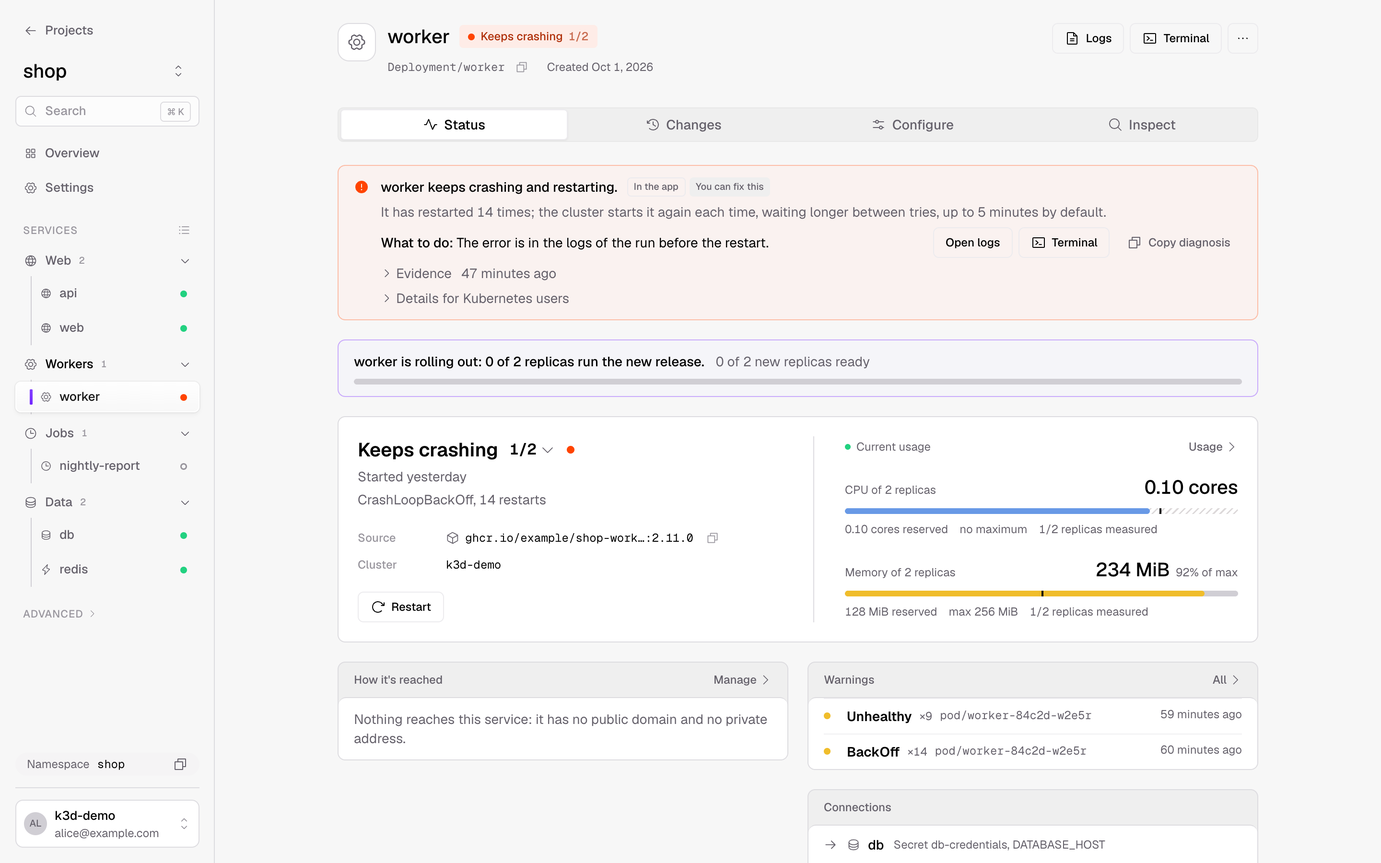
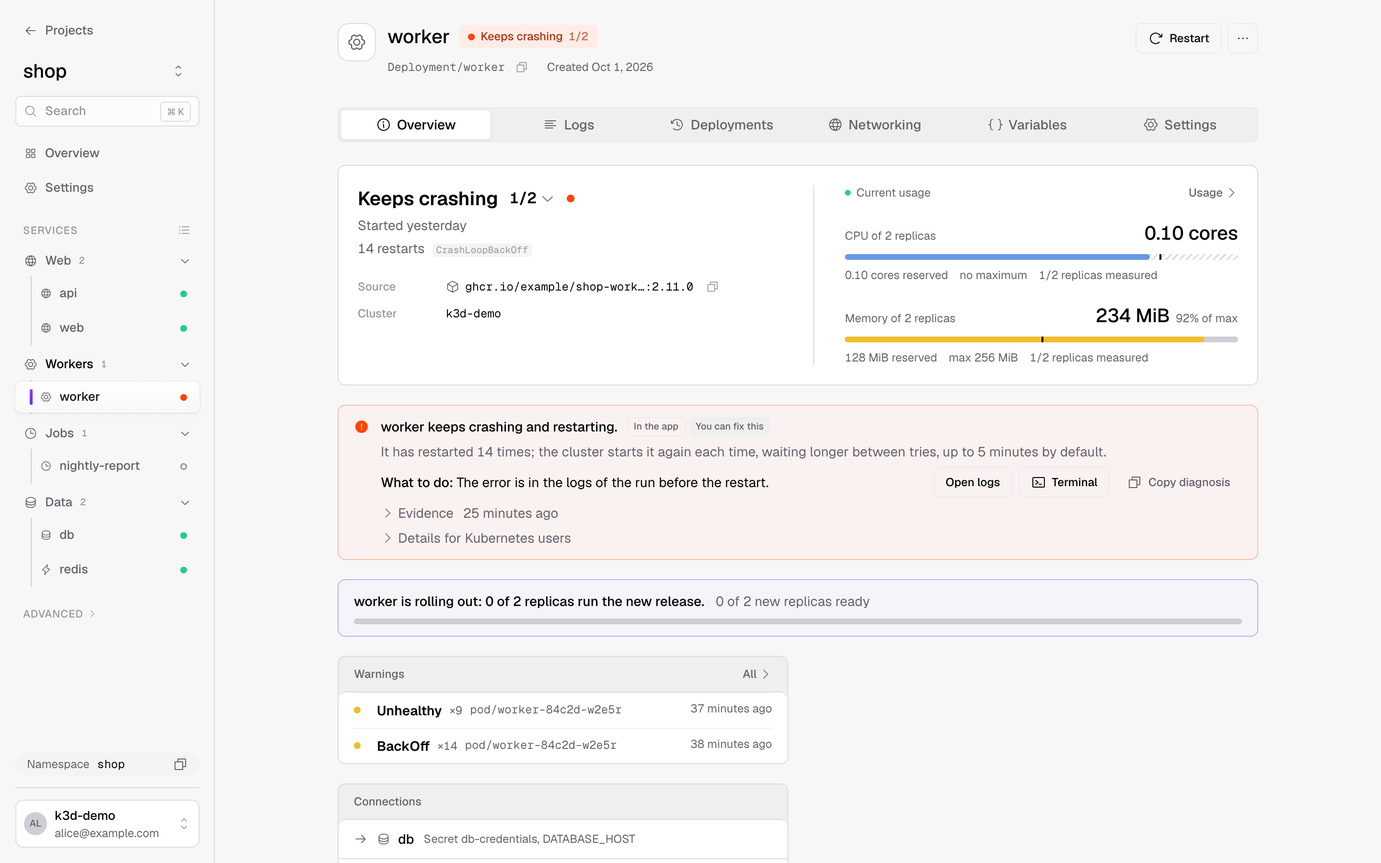
docs: describe a service's six tabs and its More menu
DESIGN.md dropped its "no More menu" rule: the header's one menu now holds
the views only people who know Kubernetes open (Usage, Events, Terminal,
YAML) and Delete, because people looked for logs and settings under the
names hosted Zeabur uses and an expert view does not earn a tab. The
wording guide, the zeabur-ui skill and the README follow, with new
screenshots.

diff --git a/web/DESIGN.md b/web/DESIGN.md
@@ -22,8 +22,8 @@ look-alikes; `src/styles/app.css` imports it and adds only this interface's layo
   that pod's logs.
 - **Bars** are `Meter` (a value on a track, a request as a mark) or `MeterStack` (parts of a
   whole); no bar of its own.
-- **Tabs** are the segmented `Tabs`, the only tab style; a service's four sections fill its
-  column, each with its icon, no counts. Vertical tabs are sidebar rows; a long page's parts are a
+- **Tabs** are the segmented `Tabs`, the only tab style; a service's six tabs fill its column,
+  each with its icon (none on a phone), no counts. Vertical tabs are sidebar rows; a long page's parts are a
   `SectionNav` beside it.
 - **Columns**: a service's page in `max-w-content`; Home, Projects and the project's lists in
   `max-w-6xl`; project settings in `max-w-4xl`; the project's map takes the whole pane.
@@ -75,25 +75,28 @@ Zeabur has depth. A person new to it does most of what they came for (is it runn
 logs, change a variable, scale it, give it a domain) on a few plain pages; what takes knowing
 Kubernetes is one deliberate step further. Decide a feature's layer before its place:
 
-| Layer         | For                        | Global         | Project                         | Service                                                                               |
-| ------------- | -------------------------- | -------------- | ------------------------------- | ------------------------------------------------------------------------------------- |
-| **Everyday**  | everyone                   | Home, Projects | Overview (map or list)          | Status, Changes, Configure (Variables, Domains and addresses, Storage, Compute), Logs |
-| **Adjusting** | digging in, tuning         |                | Suggestions, Activity, Settings | Configure's Health checks, Changes' compare and roll back, Inspect's Usage and Events |
-| **Expert**    | people who know Kubernetes | Cluster        | Objects                         | Inspect's Terminal and YAML                                                           |
+| Layer         | For                        | Global         | Project                         | Service                                                                                  |
+| ------------- | -------------------------- | -------------- | ------------------------------- | ---------------------------------------------------------------------------------------- |
+| **Everyday**  | everyone                   | Home, Projects | Overview (map or list)          | Overview, Logs, Deployments, Networking, Variables, Settings (Compute, Storage)          |
+| **Adjusting** | digging in, tuning         |                | Suggestions, Activity, Settings | Settings' Health checks, Deployments' compare and roll back, the menu's Usage and Events |
+| **Expert**    | people who know Kubernetes | Cluster        | Objects                         | The menu's Terminal and YAML                                                             |
 
 - **Everyday comes first and alone.** The sidebar leads with Home and Projects; Cluster and
   Settings are in a Manage group after them. A project's sidebar lists Overview and Settings,
-  then its services, with Objects under Advanced. A service has four sections, each answering one
-  question: Status (is it working, and if not why), Changes (what changed), Configure (how it is
-  set up) and Inspect (look inside). Logs and Terminal are also in its header, one press from a
-  problem; View YAML is in its menu. There is no "More" menu: what does not apply is left out.
+  then its services, with Objects under Advanced. A service has six tabs under the names hosted Zeabur uses:
+  Overview (is it working, and if not why), Logs, Deployments (what changed), Networking,
+  Variables and Settings. A tab is never also a header button. The header's one "More" menu
+  (⋯) holds the views only people who know Kubernetes open (Usage, Events, Terminal, YAML) and
+  Delete; a view shows in place of the tabs with Close. This menu replaced a fourth section,
+  Inspect: people looked for logs and settings under the names they knew, and an expert view does
+  not earn a tab. Nothing else goes in it; what does not apply is left out.
   In a form, an adjusting part is a folding section (Collapsible `section`). There is no
   beginner or expert switch: explanations attach to problems and first encounters, and nothing
   folds more than twice.
 - **Fold, never hide.** Every deeper page stays one press away: a folded group remembers being
   opened (`remembered` in `lib/stores.ts`), a group that holds the page shown opens itself, and
-  a link straight to a deeper page (`?tab=inspect&view=yaml`, a toast's View, the header menu's
-  View YAML) shows it in place.
+  a link straight to a deeper page (`?tab=yaml`, a toast's View, the header menu's YAML) shows
+  it in place.
 - **One current row.** The deepest place the page is has the selected fill; the rows it is under are
   ancestors (label in the text colour). Navigation links match their path exactly.
 
@@ -102,17 +105,17 @@ Kubernetes is one deliberate step further. Decide a feature's layer before its p
 Find the problem first, then let the person choose to dig into a service or to understand how the
 project fits together. Workflow, comparison and relationships each have their own entry.
 
-| URL                                 | Page                                                                                                                                                                                                                                                                                                                                                                                                                                                                                                                                                                                                                                                                                                                                                                                                                                                                                                                                                                                                                                                                                      |
-| ----------------------------------- | ----------------------------------------------------------------------------------------------------------------------------------------------------------------------------------------------------------------------------------------------------------------------------------------------------------------------------------------------------------------------------------------------------------------------------------------------------------------------------------------------------------------------------------------------------------------------------------------------------------------------------------------------------------------------------------------------------------------------------------------------------------------------------------------------------------------------------------------------------------------------------------------------------------------------------------------------------------------------------------------------------------------------------------------------------------------------------------------- |
-| `/`                                 | **Home**, "What needs you": one sentence of the overall state beside the cluster's version, nodes ready and upgrade pill (linking to `/cluster`); then the cluster's incidents, each once with the services and domains it takes down; then every other problem across projects grouped by where it comes from (the cluster, a cluster component, Zeabur, upstream, the settings, the app), each with its cause, who can fix it, and its fix, Logs and Events; cluster warnings that take nothing down in one line; what is rolling out. When nothing needs the person, one line. Then projects failing first (20 shown) and recent warnings (5).                                                                                                                                                                                                                                                                                                                                                                                                                                         |
-| `/cluster`                          | **Cluster**, tab Overview: version with an upgrade pill, needs attention, nodes with requests against allocatable (usage when metrics-server is there), the last hour's warnings about the cluster itself (no namespace, a Node, or a `kube-` namespace). Projects are Home's. Each section loads alone; a section the person may not read names the missing rule and copies a ClusterRole.                                                                                                                                                                                                                                                                                                                                                                                                                                                                                                                                                                                                                                                                                               |
-| `/cluster/components`               | **Cluster**, tab Components: installed components with their versions against the tested ones, then the catalogue. Reading it takes an administrator's rights; anyone else sees the missing rules and a ClusterRole to copy.                                                                                                                                                                                                                                                                                                                                                                                                                                                                                                                                                                                                                                                                                                                                                                                                                                                              |
-| `/projects`                         | Projects as cards (namespace, services' health, domain; failing first), or as a list (remembered), then the other namespaces.                                                                                                                                                                                                                                                                                                                                                                                                                                                                                                                                                                                                                                                                                                                                                                                                                                                                                                                                                             |
-| `/projects/:p`                      | **Overview**: name and health, when it last heard from the cluster, "N suggestions" (missing setup, in a drawer, each with its fix), and Map or List (`?view`, remembered; a list from 13 services or on a phone). Needs attention: the project's incidents, then each failing service with its cause, fix and Logs. Map: layered canvas, declared (solid) and inferred (dashed) edges, PVCs under cards, a problem on its card; a card opens a quick look (`?service=Kind/name`); Activity beside it from the timeline (releases, writes by tool, warnings, terminations). List: the services table (`?q`, `?status=attention\|healthy`, `?kind`, `?sort`, `?desc`; live CPU and memory when metrics-server answers; a replica's square opens its logs), Activity, domains, storage and backups. An empty project leads with what to do next. `/projects/:p/architecture` and `/projects/:p/services` lead here.                                                                                                                                                                         |
-| `/projects/:p/objects`              | **Objects**: kinds first. The usual kinds and pinned kinds are read on open; every other served kind (custom resources too) is a row read on click; Scan all kinds reads the rest; kinds without access are marked; answers kept 45 s, Refresh re-reads, never polled; generated (`?generated`) and empty (`?empty`) kinds folded; `?q`; a name opens its YAML (`?object=group/version/resource/name`).                                                                                                                                                                                                                                                                                                                                                                                                                                                                                                                                                                                                                                                                                   |
-| `/projects/:p/services/:kind/:name` | **Service**: header (icon, name, status with its reason, created, `Kind/name`, Logs, Terminal, and a menu with Restart, Open terminal, View YAML, Delete), then four sections (`?tab`). **Status**: what is wrong (where it comes from, who can fix it, the fix, Logs, Terminal, Copy diagnosis), a rollout in progress or stuck, the health sentence with replicas and current usage, how it is reached (each domain and private address traced hop by hop, stopping at the hop that fails with its fix), warnings and connections. **Changes**: the timeline (releases with their pods, compare and roll back; writes and the tool that made them; warnings; terminations). **Configure**: Variables, Domains and addresses, Storage, Compute and Health checks on one page beside a section nav (`#part`); every edit is added to one pending plan ("2 changes pending · Review") whose dialog says what restarts, whether it fits and what is lost. **Inspect**: Logs, Terminal, Usage, YAML and Events (`?view`, `?pod`, `?range`, `?split`). An old `?tab=` leads to its new place. |
-| `/projects/:p/settings`             | **Project settings** (their own sidebar: Back, General): Basic information (icon, name, description), Kubernetes namespace (name, shown as a project or Adopt), Batch actions (pause or restart every service, one plan each), Danger zone (Remove from Zeabur).                                                                                                                                                                                                                                                                                                                                                                                                                                                                                                                                                                                                                                                                                                                                                                                                                          |
-| `/settings`                         | Preferences, the metrics store usage history is read from, the signed-in person and About. `/settings/components` redirects to `/cluster/components`.                                                                                                                                                                                                                                                                                                                                                                                                                                                                                                                                                                                                                                                                                                                                                                                                                                                                                                                                     |
+| URL                                 | Page                                                                                                                                                                                                                                                                                                                                                                                                                                                                                                                                                                                                                                                                                                                                                                                                                                                                                                                                                                                                                                                                                                                                                                                                                                                                                                                                                                                                                                                                                                                                                                           |
+| ----------------------------------- | ------------------------------------------------------------------------------------------------------------------------------------------------------------------------------------------------------------------------------------------------------------------------------------------------------------------------------------------------------------------------------------------------------------------------------------------------------------------------------------------------------------------------------------------------------------------------------------------------------------------------------------------------------------------------------------------------------------------------------------------------------------------------------------------------------------------------------------------------------------------------------------------------------------------------------------------------------------------------------------------------------------------------------------------------------------------------------------------------------------------------------------------------------------------------------------------------------------------------------------------------------------------------------------------------------------------------------------------------------------------------------------------------------------------------------------------------------------------------------------------------------------------------------------------------------------------------------ |
+| `/`                                 | **Home**, "What needs you": one sentence of the overall state beside the cluster's version, nodes ready and upgrade pill (linking to `/cluster`); then the cluster's incidents, each once with the services and domains it takes down; then every other problem across projects grouped by where it comes from (the cluster, a cluster component, Zeabur, upstream, the settings, the app), each with its cause, who can fix it, and its fix, Logs and Events; cluster warnings that take nothing down in one line; what is rolling out. When nothing needs the person, one line. Then projects failing first (20 shown) and recent warnings (5).                                                                                                                                                                                                                                                                                                                                                                                                                                                                                                                                                                                                                                                                                                                                                                                                                                                                                                                              |
+| `/cluster`                          | **Cluster**, tab Overview: version with an upgrade pill, needs attention, nodes with requests against allocatable (usage when metrics-server is there), the last hour's warnings about the cluster itself (no namespace, a Node, or a `kube-` namespace). Projects are Home's. Each section loads alone; a section the person may not read names the missing rule and copies a ClusterRole.                                                                                                                                                                                                                                                                                                                                                                                                                                                                                                                                                                                                                                                                                                                                                                                                                                                                                                                                                                                                                                                                                                                                                                                    |
+| `/cluster/components`               | **Cluster**, tab Components: installed components with their versions against the tested ones, then the catalogue. Reading it takes an administrator's rights; anyone else sees the missing rules and a ClusterRole to copy.                                                                                                                                                                                                                                                                                                                                                                                                                                                                                                                                                                                                                                                                                                                                                                                                                                                                                                                                                                                                                                                                                                                                                                                                                                                                                                                                                   |
+| `/projects`                         | Projects as cards (namespace, services' health, domain; failing first), or as a list (remembered), then the other namespaces.                                                                                                                                                                                                                                                                                                                                                                                                                                                                                                                                                                                                                                                                                                                                                                                                                                                                                                                                                                                                                                                                                                                                                                                                                                                                                                                                                                                                                                                  |
+| `/projects/:p`                      | **Overview**: name and health, when it last heard from the cluster, "N suggestions" (missing setup, in a drawer, each with its fix), and Map or List (`?view`, remembered; a list from 13 services or on a phone). Needs attention: the project's incidents, then each failing service with its cause, fix and Logs. Map: layered canvas, declared (solid) and inferred (dashed) edges, PVCs under cards, a problem on its card; a card opens a quick look (`?service=Kind/name`); Activity beside it from the timeline (releases, writes by tool, warnings, terminations). List: the services table (`?q`, `?status=attention\|healthy`, `?kind`, `?sort`, `?desc`; live CPU and memory when metrics-server answers; a replica's square opens its logs), Activity, domains, storage and backups. An empty project leads with what to do next. `/projects/:p/architecture` and `/projects/:p/services` lead here.                                                                                                                                                                                                                                                                                                                                                                                                                                                                                                                                                                                                                                                              |
+| `/projects/:p/objects`              | **Objects**: kinds first. The usual kinds and pinned kinds are read on open; every other served kind (custom resources too) is a row read on click; Scan all kinds reads the rest; kinds without access are marked; answers kept 45 s, Refresh re-reads, never polled; generated (`?generated`) and empty (`?empty`) kinds folded; `?q`; a name opens its YAML (`?object=group/version/resource/name`).                                                                                                                                                                                                                                                                                                                                                                                                                                                                                                                                                                                                                                                                                                                                                                                                                                                                                                                                                                                                                                                                                                                                                                        |
+| `/projects/:p/services/:kind/:name` | **Service**: header (icon, name, status with its reason, created, `Kind/name`, Restart, and the ⋯ menu with Usage, Events, Terminal, YAML and Delete), then six tabs (`?tab`). **Overview**, each card only when it has something: the health sentence first, with replicas and current usage; what is wrong (where it comes from, who can fix it, the fix, Logs, Terminal, Copy diagnosis); a rollout in progress or stuck; Networking, each domain and private address on one line: "Reachable", "Not reachable" with the failing hop in plain words and How to fix, or "Not verified from inside the cluster" when only hops Zeabur could not check remain; the hops wait behind "Show connection checks", where one not checked is neutral, never red; then warnings and connections. **Logs** (`?pod`): a replica that is gone gives way to the current one, which the page names. **Deployments**: the timeline (releases with their pods, compare and roll back; writes and the tool that made them; warnings; terminations). **Networking**, **Variables** and **Settings** (Compute, Health checks and Storage beside a section nav, `#part`): every edit is added to one pending plan ("2 changes pending · Review") whose dialog says what restarts, whether it fits and what is lost, and a tab holding one carries a dot. A menu view (`?tab=usage\|events\|terminal\|yaml`, `?range`, `?split`) shows in place of the tabs. An old `?tab=` (status, changes, configure, inspect with its `?view`, releases, metrics, a part of Settings) leads to its new place. |
+| `/projects/:p/settings`             | **Project settings** (their own sidebar: Back, General): Basic information (icon, name, description), Kubernetes namespace (name, shown as a project or Adopt), Batch actions (pause or restart every service, one plan each), Danger zone (Remove from Zeabur).                                                                                                                                                                                                                                                                                                                                                                                                                                                                                                                                                                                                                                                                                                                                                                                                                                                                                                                                                                                                                                                                                                                                                                                                                                                                                                               |
+| `/settings`                         | Preferences, the metrics store usage history is read from, the signed-in person and About. `/settings/components` redirects to `/cluster/components`.                                                                                                                                                                                                                                                                                                                                                                                                                                                                                                                                                                                                                                                                                                                                                                                                                                                                                                                                                                                                                                                                                                                                                                                                                                                                                                                                                                                                                          |
 
 Everything a person picks (tab, filter, sort, selected service, pod) is in the URL: links are
 shareable and Back works. The map's viewport is kept per project for the visit, so coming back
@@ -189,8 +192,8 @@ validity) the interface shows what it has (requests and limits, requested size, 
 configured") and says no more. The map's lines come from Kubernetes objects and variable
 values, not from traffic: no animation, a legend, and the reason for each edge on hover. Where the
 project's NetworkPolicy objects block an edge it is drawn dotted in the failure colour (warning
-colour when only partly allowed); Configure's Domains and addresses says the same per service and
-always adds that enforcement depends on the cluster's network plugin. Backups (Configure's
+colour when only partly allowed); the Networking tab says the same per service and
+always adds that enforcement depends on the cluster's network plugin. Backups (Settings'
 Storage, the project's list) show each claim's and database's schedule and latest run as the provider reports them,
 and say plainly when no backup component is installed or its objects may not be read.
 
@@ -226,7 +229,7 @@ the callout.
 
 Confirming closes the dialog at once; the outcome is a toast (Sonner, one toaster in the shell,
 loaded after the first page; `components/plan/outcome.ts`). Success says "Applied" with what
-changed and a View action to where it shows (Changes after a restart or rollback, Configure's
+changed and a View action to where it shows (Deployments after a restart or rollback,
 Variables, the object), or Undo where the change can be taken back as a change of its own
 (scaling: Undo plans and applies the scale back). Failure says why in plain words: `409` "Changed
 in the meantime" with Review again (the same change planned afresh, the dialog reopened), `403`

diff --git a/.claude/skills/zeabur-ui/SKILL.md b/.claude/skills/zeabur-ui/SKILL.md
@@ -36,11 +36,15 @@ description: Change Zeabur's web interface (web/: React, TanStack, shadcn/ui on 
   (`components/shell/project-sidebar.tsx`) replaces the global one. Home is "What needs you"
   (incidents, then problems by origin, each with cause, fixer and fix). A project is one page:
   Needs attention, then its map or list (`?view`) with Activity, gaps behind "N suggestions". A
-  service page is a header and four segmented `Tabs` (Status, Changes, Configure, Inspect) in
-  `max-w-content`; Configure is one page with a `SectionNav` whose edits collect in a `DraftBar`;
-  an old `?tab=` must keep redirecting (`routes/search.ts`). Projects are cards
-  (`components/project-card.tsx`); settings are `SectionLabel` over `Card variant="list"` of
-  `CardRow`s. No underline tabs, no "More" menu. Tokens, layout, shell and banned styles are in
+  service page is a header and six segmented `Tabs` named as hosted Zeabur names them (Overview,
+  Logs, Deployments, Networking, Variables, Settings) in `max-w-content`; Settings is one page with
+  a `SectionNav`, and edits in Networking, Variables and Settings collect in one `DraftBar`. The
+  header's ⋯ menu holds the expert views (Usage, Events, Terminal, YAML) and Delete, nothing
+  else; a tab is never also a header button. An old `?tab=` must keep redirecting
+  (`routes/search.ts`). Overview leads with one sentence each: health, then each domain
+  reachable, not reachable with its fix, or not verified (never red for a hop Zeabur could not
+  check). Projects are cards (`components/project-card.tsx`); settings are `SectionLabel` over
+  `Card variant="list"` of `CardRow`s. No underline tabs. Tokens, layout, shell and banned styles are in
   `web/DESIGN.md`; `scripts/check-ui-styles.sh` enforces the bans (including focus rings).
 - **Lint.** `bun run lint` includes [shadcn/lint](https://github.com/shadcn-ui/lint) (rules in
   `web/.oxlintrc.json`, which recognises the design system's components by `componentImports`;

diff --git a/docs/wording.md b/docs/wording.md
@@ -205,7 +205,9 @@ why. Add a row before introducing a new concept.
 | traffic check (readiness) | 就緒檢查 | 就绪检查 | |
 | restart check (liveness) | 存活檢查 | 存活检查 | |
 | light / dark theme | 淺色／深色 | 亮色／暗色 | |
-| Status / Changes / Configure / Inspect (a service's sections) | 狀態／變更／設定／檢查 | 状态／变更／配置／检查 | Inspect holds logs, terminal, metrics, objects and YAML |
+| Overview / Logs / Deployments / Networking / Variables / Settings (a service's tabs) | 概覽／日誌／部署紀錄／網路／環境變數／設定 | 概览／日志／部署记录／网络／变量／设置 | The dashboard's tab names; Deployments holds the releases and what changed |
+| reachable / not reachable / not verified (a domain or address) | 可連線／無法連線／無法確認 | 可访问／无法访问／无法确认 | "Not verified" is never a failure: Zeabur could not check it from where it runs |
+| connection check (one hop of the way to an address) | 連線檢查 | 连接检查 | |
 | suggestion (a gap to close) | 建議 | 建议 | |
 | in the app / in its settings / in the cluster (where a problem comes from) | 應用程式本身／服務設定／叢集 | 应用本身／服务配置／集群 | A label beside the problem, never a verdict on its own |
 | you can fix this / needs a cluster admin (who can fix it) | 你可以修正／需要叢集管理員 | 你可以修复／需要集群管理员 | |

diff --git a/README.md b/README.md
@@ -22,7 +22,7 @@ than you have, and keeps no state of its own: no database, no custom resources.
 
 | | |
 | --- | --- |
-| ![A project on one page: what needs attention, the map of its domains, services and data, and its recent activity](docs/images/architecture.png) | ![A service that keeps crashing: its Status says why in plain words, where the problem comes from and what to do](docs/images/crash-loop.png) |
+| ![A project on one page: what needs attention, the map of its domains, services and data, and its recent activity](docs/images/architecture.png) | ![A service that keeps crashing: its Overview says why in plain words, where the problem comes from and what to do](docs/images/crash-loop.png) |
 | **One page per project**: a map or a list, with what needs attention and what happened. | **Diagnoses** in plain words, with the fix and the evidence. |
 | ![The confirmation before a restart: what restarts, whether it fits the cluster, in plain sentences](docs/images/plan.png) | |
 | **Every change is a plan** you confirm: what restarts, whether it fits, what data it removes. | |
